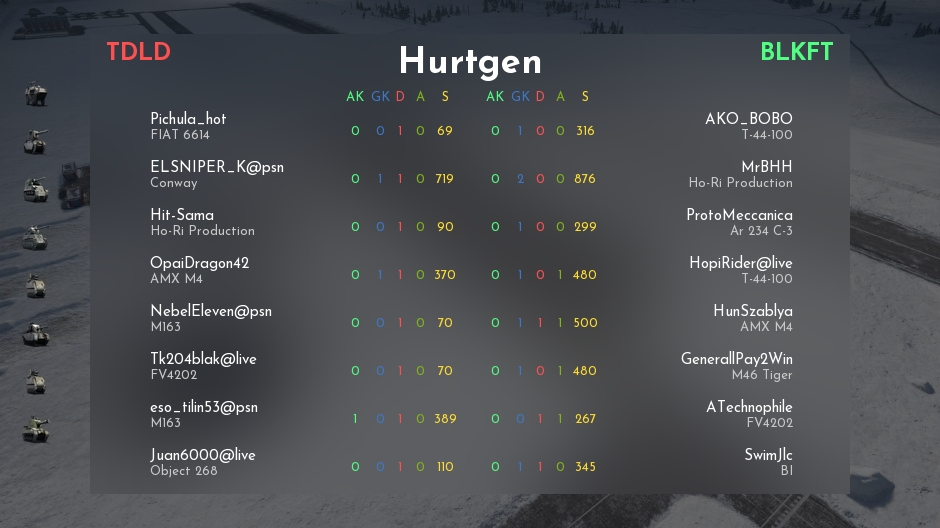
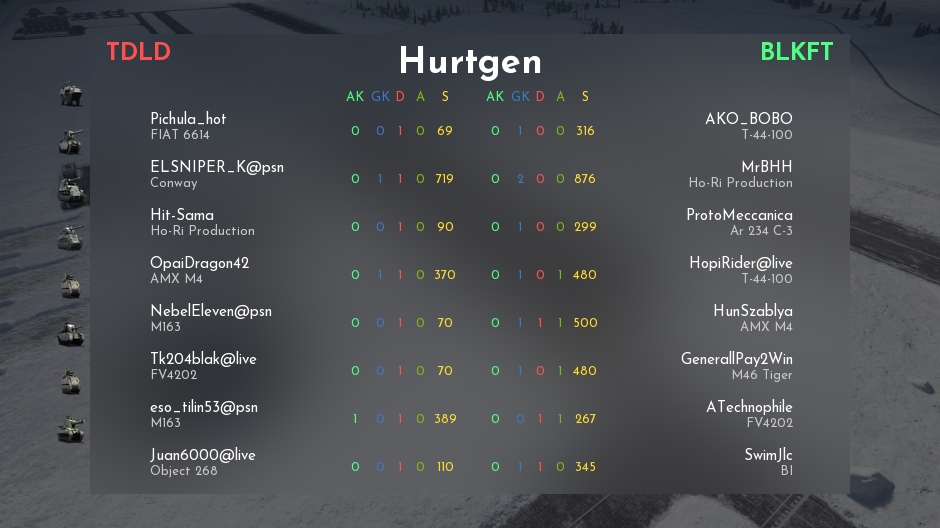
Ajout des changements

diff --git a/cogs/SquadronManager.py b/cogs/SquadronManager.py
@@ -91,7 +91,7 @@ class SquadronManager(commands.Cog):
         # 1. Trier les lineups par date (du plus récent au plus ancien)
         lineups.sort(key=lambda x: x['timestamp'], reverse=True)
 
-        # 2. Vérification de la condition "Plus de 1 heure"
+        # 2. Vérification de la condition globale "Plus de 1 heure" pour l'apparence de l'embed
         now = datetime.now(timezone.utc)
         one_hour_ago = now - timedelta(hours=1)
         all_old = True
@@ -105,7 +105,7 @@ class SquadronManager(commands.Cog):
             except:
                 continue
 
-        # 3. Détermination de la configuration de l'embed
+        # 3. Détermination de la configuration de l'embed (Couleur et Icone globale)
         if all_old:
             display_list = [lineups[0]]
             embed_color = 0xFF0000  # Rouge
@@ -117,7 +117,7 @@ class SquadronManager(commands.Cog):
 
         embed = nextcord.Embed(
             title=f"{warning_icon}Compos de/du {tag}",
-            description="Compos vues dans les dernières 24 heures", #Comps seen in the last 24 hours
+            description="Compos vues dans les dernières 24 heures",
             color=embed_color
         )
 
@@ -127,54 +127,60 @@ class SquadronManager(commands.Cog):
             if not players:
                 continue
 
-            # --- CORRECTION : Calcul du résumé avec ORDRE STRICT (F/B/T/A) et FILTRE 0 ---
+            # --- Calcul du nombre de joueurs pour le format [X/8] ---
+            num_players = len(players)
+
+            # --- Calcul du résumé avec ORDRE STRICT (F/B/T/A) et FILTRE 0 ---
             type_counts = {}
             for p in players:
-                v_type = (p.format_vehicle_type() if hasattr(p, 'format_vehicle_type') else (
-                        p.get("vehicle_type") or "Unknown")).upper()
+                v_type = (p.format_vehicle_mode() if hasattr(p, 'format_vehicle_mode') else (
+                        p.get("vehicle_type") or "Inconnu")).upper()
                 short_type = v_type[0] if v_type else "?"
                 type_counts[short_type] = type_counts.get(short_type, 0) + 1
 
-            # On définit l'ordre de priorité souhaité
             priority_order = ['F', 'B', 'T', 'A']
             summary_parts = []
-
             for char in priority_order:
                 count = type_counts.get(char, 0)
-                if count > 0:  # On n'ajoute que si le compte est supérieur à 0
+                if count > 0:
                     summary_parts.append(f"{count}{char}")
 
-            # Si aucun des types prioritaires n'est trouvé, on affiche les types trouvés par défaut
             if not summary_parts:
                 summary_str = " / ".join([f"{c}{t}" for t, c in type_counts.items()])
             else:
                 summary_str = " / ".join(summary_parts)
-            # ------------------------------------------------------------------------------
 
-            # Construction de la liste des joueurs
-            player_lines = []
-            for p in players:
-                name = p["name"]
-                v_name = p["vehicle_name"] or "Unknown"
-                formatted_line = f"{name[:15].ljust(15)} | {v_name}"
-                player_lines.append(formatted_line)
-            player_list_str = "\n".join(player_lines)
-
-            # Calcul du temps écoulé
+            # --- Calcul du temps écoulé et détection de l'âge individuel pour le bloc DIFF ---
             try:
                 session_time = datetime.fromisoformat(lineup["timestamp"])
                 if session_time.tzinfo is None:
                     session_time = session_time.replace(tzinfo=timezone.utc)
                 diff = now - session_time
                 last_seen = format_duration(diff)
-            except Exception:
-                last_seen = "Unknown"
 
+                # Si cette compo précise est vieille de plus d'une heure, on prépare le préfixe rouge (-)
+                diff_prefix = "- " if (session_time < one_hour_ago) else ""
+            except Exception:
+                last_seen = "Inconnu"
+                diff_prefix = "- "
+
+            # --- Construction de la liste des joueurs avec le préfixe DIFF ---
+            player_lines = []
+            for p in players:
+                name = p["name"]
+                v_name = p["vehicle_name"] or "Inconnu"
+                formatted_line = f"{name[:15].ljust(15)} | {v_name}"
+                # On ajoute le préfixe (soit "- " pour rouge, soit "" pour blanc)
+                player_lines.append(f"{diff_prefix}{formatted_line}")
+
+            player_list_str = "\n".join(player_lines)
+
+            # --- Construction du champ final avec [X/8] ---
             field_value = (
-                f"**COMP {i}**\n"
+                f"**COMPO {i} [{num_players}/8]**\n"
                 f"**Vu il y a:** {last_seen}\n"
-                f"**Comp:** `{summary_str}`\n"
-                f"```\n{player_list_str}\n```"
+                f"**Compo:** `{summary_str}`\n"
+                f"```diff\n{player_list_str}\n```"
             )
             embed.add_field(name="\u200b", value=field_value, inline=False)
 
